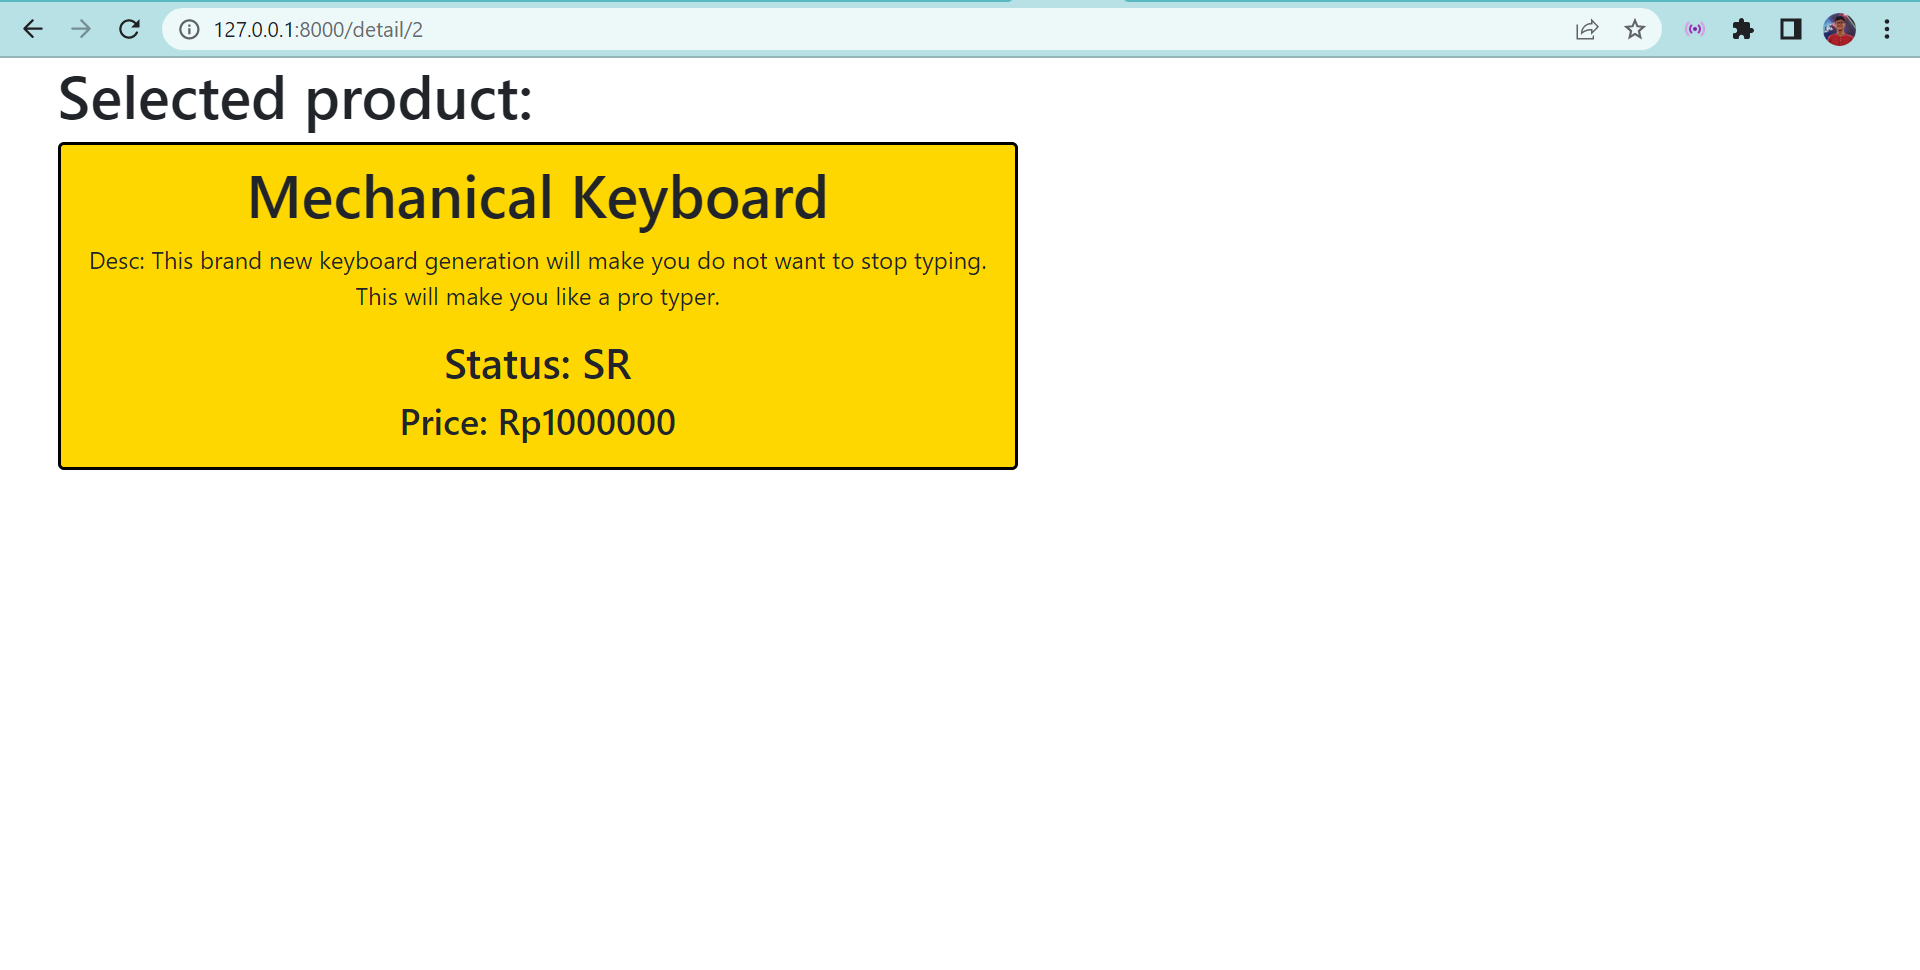
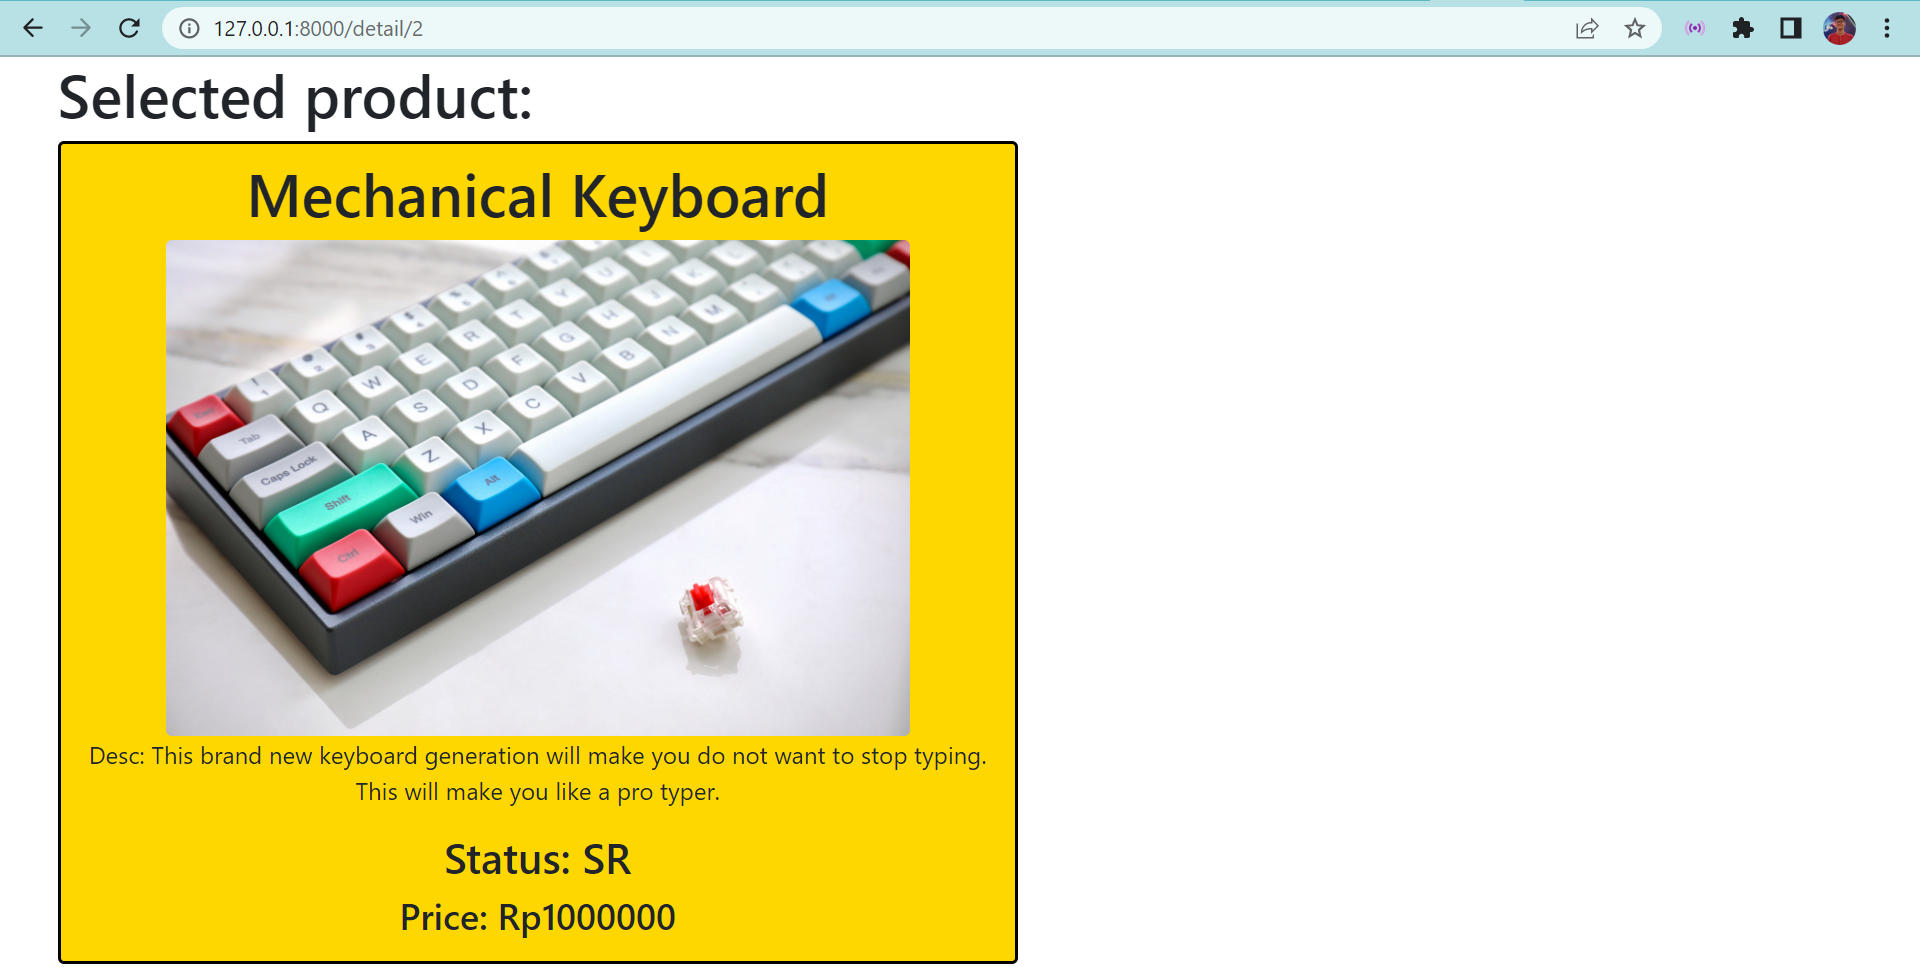
Adding another image

diff --git a/app/Http/Controllers/ProductController.php b/app/Http/Controllers/ProductController.php
@@ -13,26 +13,31 @@ class ProductController extends Controller
             'name' => 'Laptop',
             'desc' => 'This product is very very limited. With this, you can do all your works easily and can save tons of files.',
             'status' => 'SSR',
+            'image' => '1.jpg',
             'price' => 50000000],
 
             ['id' => 2,
             'name' => 'Mechanical Keyboard',
             'desc' => 'This brand new keyboard generation will make you do not want to stop typing. This will make you like a pro typer.',
             'status' => 'SR',
+            'image' => '2.jpg',
             'price' => 1000000],
 
             ['id' => 3,
             'name' => 'Mouse',
             'desc' => 'This newest product is a must buy. It is every programmers favorite mouse. Buy this and you will become a pro.',
             'status' => 'R',
+            'image' => '3.jpg',
             'price' => 200000],
 
             ['id' => 4,
             'name' => 'Smart Watch',
             'desc' => 'This product is a limited time sale only. You can call someone and text someone from this product.',
             'status' => 'SR',
+            'image' => '4.jpg',
             'price' => 4000000],
         ];
+
 
         return view('product', compact('listproduct'));
     }
@@ -43,24 +48,28 @@ class ProductController extends Controller
             'name' => 'Laptop',
             'desc' => 'This product is very very limited. With this, you can do all your works easily and can save tons of files.',
             'status' => 'SSR',
+            'image' => '1.jpg',
             'price' => 50000000],
 
             ['id' => 2,
             'name' => 'Mechanical Keyboard',
             'desc' => 'This brand new keyboard generation will make you do not want to stop typing. This will make you like a pro typer.',
             'status' => 'SR',
+            'image' => '2.jpg',
             'price' => 1000000],
 
             ['id' => 3,
             'name' => 'Mouse',
             'desc' => 'This newest product is a must buy. It is every programmers favorite mouse. Buy this and you will become a pro.',
             'status' => 'R',
+            'image' => '3.jpg',
             'price' => 200000],
 
             ['id' => 4,
             'name' => 'Smart Watch',
             'desc' => 'This product is a limited time sale only. You can call someone and text someone from this product.',
             'status' => 'SR',
+            'image' => '4.jpg',
             'price' => 4000000],
         ];
 

diff --git a/resources/views/product.blade.php b/resources/views/product.blade.php
@@ -16,7 +16,7 @@
                         background-color: red
                     @endif">
                     <h1>{{ $product["name"] }}</h1>
-                    <img class="rounded mx-auto d-block" style="width: 80%; height: 30%" src="img/{{ $product["id"] }}.jpg" alt="">
+                    <img class="rounded mx-auto d-block" style="width: 80%; height: 30%" src="img/{{ $product["image"] }}" alt="">
                     <p>Desc: {{ $product["desc"] }}</p>
                     <h3>Status: {{ $product["status"] }}</h3>
                     <h4>Price: Rp{{ $product["price"] }}</h4>

diff --git a/resources/views/detail.blade.php b/resources/views/detail.blade.php
@@ -13,6 +13,7 @@
             background-color: red
         @endif">
         <h1>{{ $product["name"] }}</h1>
+        <img class="rounded mx-auto d-block" style="width: 80%; height: 30%" src="{{asset('img/'. $product["image"]) }}" alt="">
         <p>Desc: {{ $product["desc"] }}</p>
         <h3>Status: {{ $product["status"] }}</h3>
         <h4>Price: Rp{{ $product["price"] }}</h4>
